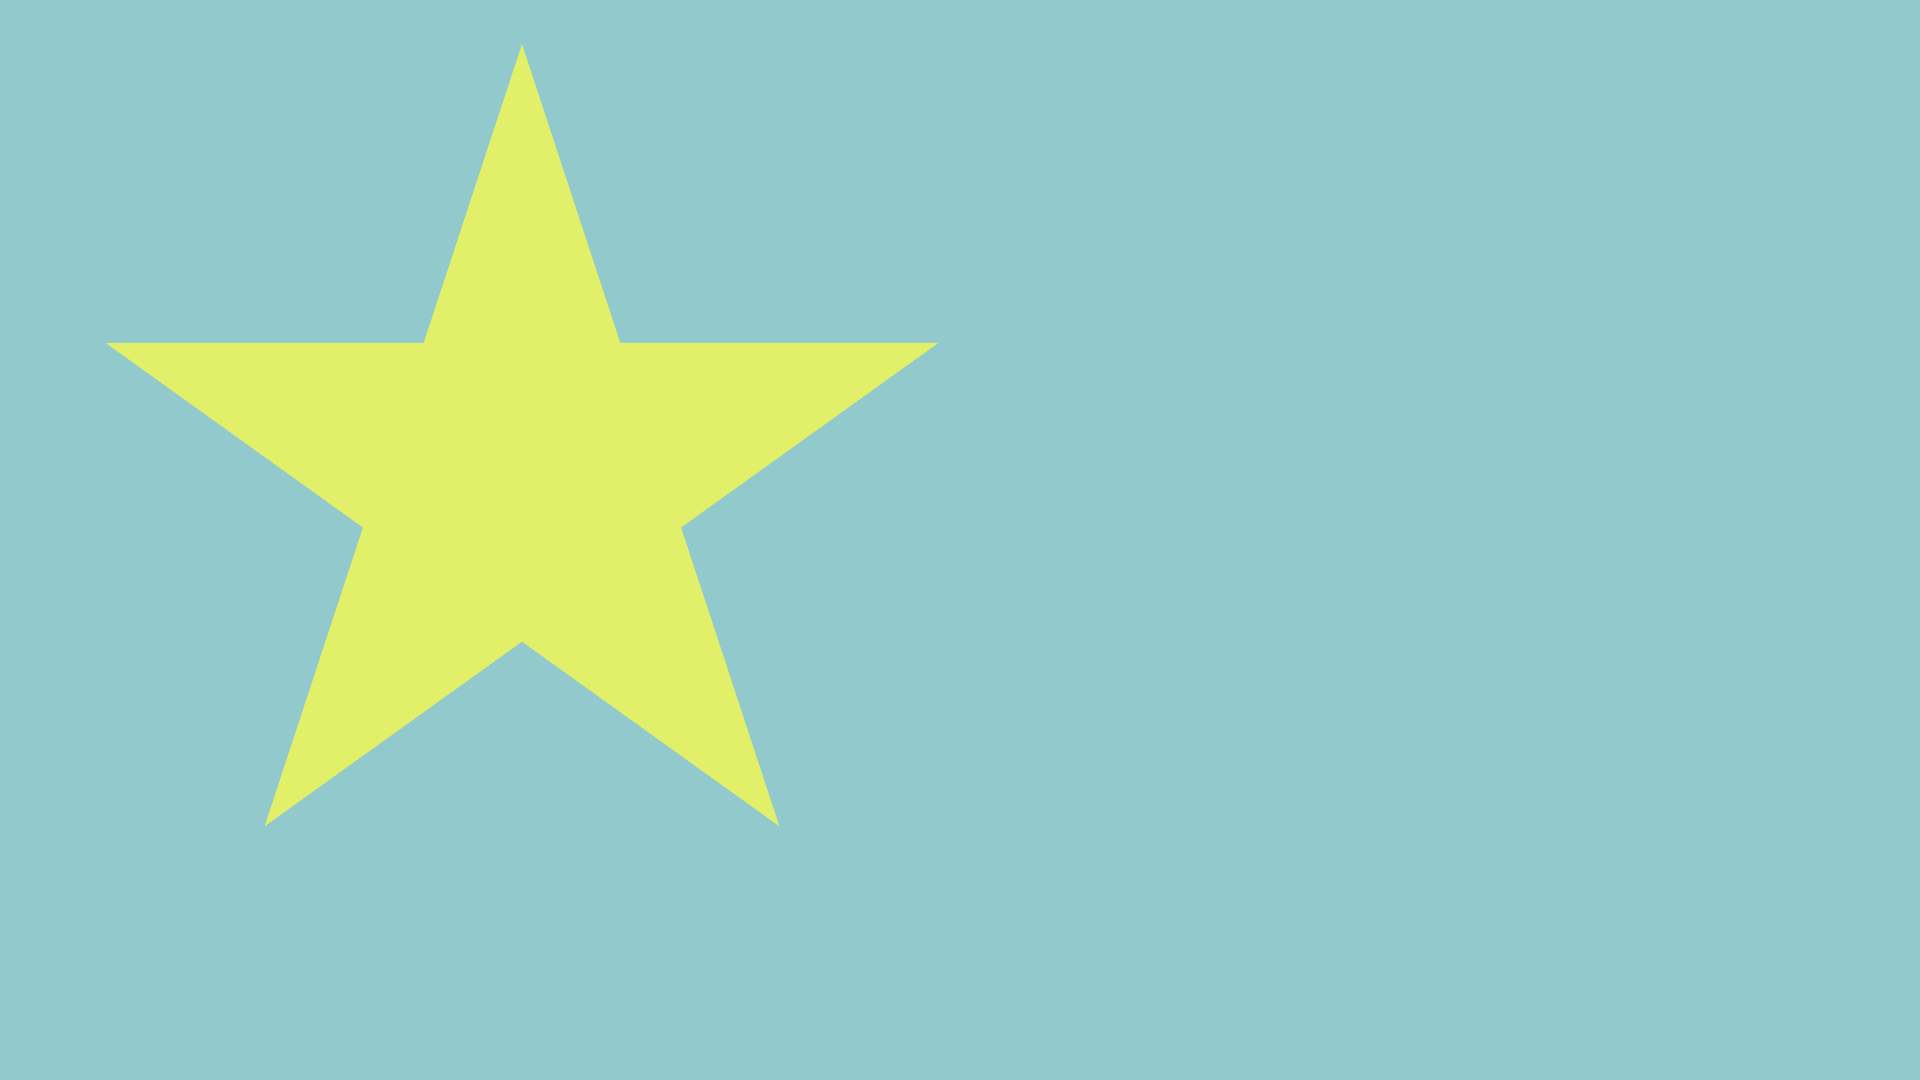
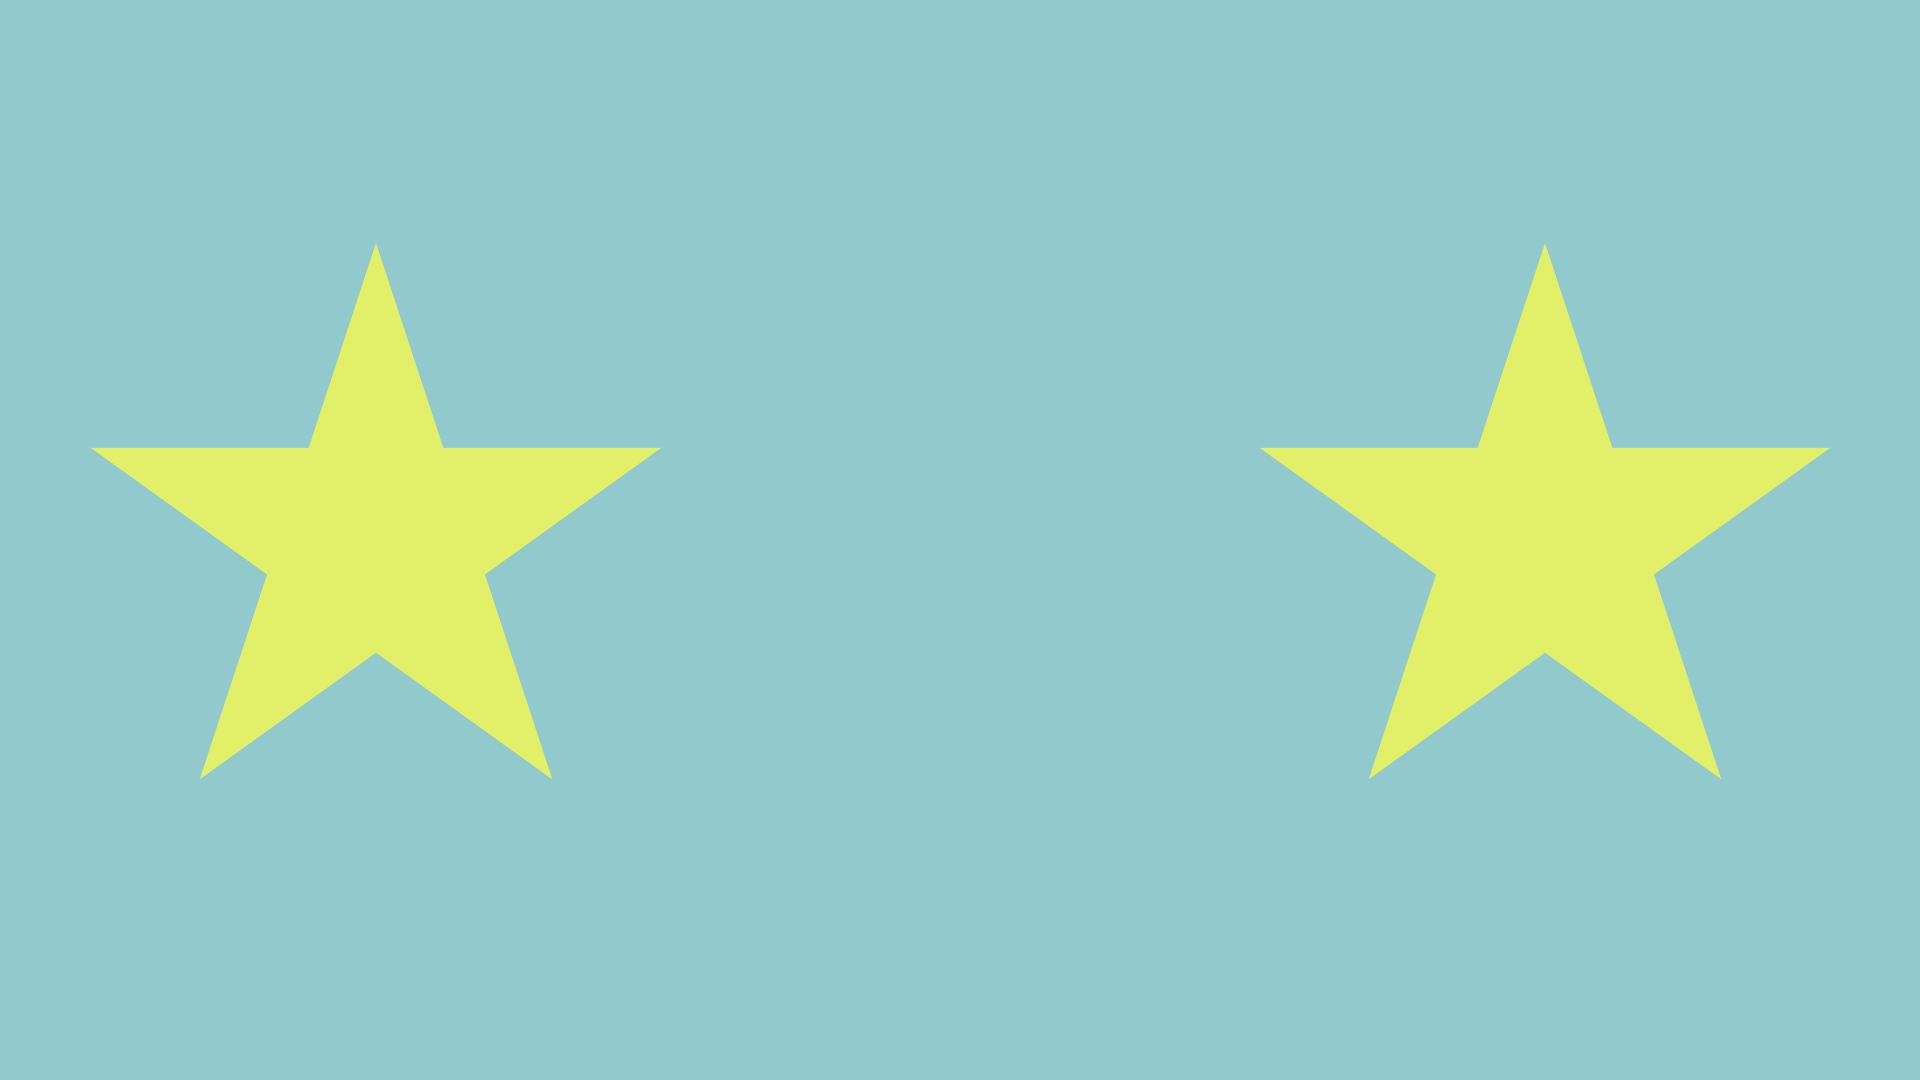
new page w/ SAV

Changed region(s): [[0.0312, 0.0611, 0.5, 0.7639], [0.6562, 0.2444, 0.9688, 0.7333]]

diff --git a/sav.html b/sav.html
@@ -35,10 +35,10 @@
 
 <main class="site-main fade-and-move-in">
   <section class="port-hero savhero">
-    <h1> SAV: Find your Fashion</h1>
+    <h1> SAV</h1>
   </section>
     <section class="port-blurb">
-      <h1>  </h1>
+      <h1> Find Your Fashion</h1>
       <h4 class="port-brief">A Mobile App Design Design for SAV</h4>
     </section>
     
@@ -46,18 +46,18 @@
     <div class="container">
       <div class="row">
             <div class="one-half column">
-                <img src="img/talkmixed.png" alt="Talk Kaimuki Screen Grabs">
+              <div style="width:100%;height:0;padding-bottom:137%;position:relative;"><iframe src="https://giphy.com/embed/Xj9g5hfmAXircVhSKh" width="100%" height="100%" style="position:absolute" frameBorder="0" class="giphy-embed" allowFullScreen></iframe></div><p><a href="https://giphy.com/gifs/Xj9g5hfmAXircVhSKh"></a></p>
             </div>
             <div class="one-half column">
                 <h2>About the Project</h2>
                 <h4 class="sectionsub"> Goal</h4>
-                <p>The goal was to create a fresh and youthful website design for Talk Kaimuki. Former 'Coffee Talk' has opened up their doors at night and needed a wesbite to match their brand personality while adding in their new menu. </p>
+                <p>The goal was to create a mobile app design. SAV, short for savvy, is an app that helps the user create outfits from their closet. Using AI to help organize and try on their pieces, SAV makes finding your fashion easier. </p>
 
                 <h4 class="sectionsub">Research and Sketching</h4>
-                <p>Shaken, stirred, and full of flavor! The Talk Team is a crew of cool, trendy baristas and bartenders, mixing up that next-gen energy. I wanted the site design to reflect their vibe, so I tapped into their Instagram feeds to capture their Y2K-inspired style. I also wanted to include two themes, Day and Night (Coffee and Cocktails). The result? A design that is as bold and hip as they are!</p>
+                <p>SAV: Find Your Fashion is just as trendy and bold as you are! It is your clothes, your closet, your style. I wanted create a simple design that would reflect current trends.</p>
 
                 <h4 class="sectionsub"> Scope </h4>
-                <p>Project Type: Web Design </p>
+                <p>Project Type: Mobile App Design </p>
                 <p>Software: Figma, Illustrator, Photoshop</p>
 
             </div>
@@ -67,13 +67,13 @@
 <section id="styletile">
       <div class="container">
         <div class="styletiles">
-        <h2 class="sectionhead">Style Tiles + Sitemap</h2>
-            <h3> Style Tile A</h3>
-            <img src="img/talktileA.png" alt="tarot style tiles" width="2000px" height="1200px">
-            <h3> Style Tile B</h3>
-            <img src="img/talktileB.png" alt="tarot style tiles" width="2000px" height="1200px">
+        <h2 class="sectionhead">Style Tiles + Flow Chart</h2>
+            <h3> Style Tile A: Nouveau Retro</h3>
+            <img src="img/sav-tileA.png" alt="SAV style tiles" width="2000px" height="1200px">
+            <h3> Style Tile B: Brutalist</h3>
+            <img src="img/sav-tileB.png" alt="SAV style tiles" width="2000px" height="1200px">
             <h3> Site Map</h3>
-            <img src="img/talkmap.png" alt="site map" width="1000px" height="1000px">
+            <img src="img/sav-flow.png" alt="flow chart" width="1000px" height="1000px">
         </div>
       </div>
     
@@ -81,36 +81,67 @@
 
 
 <section id="ideation">
-    <h2 class="sectionhead">Wireframes</h2>
+    <h2 class="sectionhead">Lo-fi Design</h2>
     <div class="container">
       <div class="row">
-        <div class="one-half column">
-          <img src="img/talkframeA.png">
+        <div class="one-third column">
+          <img src="img/sav-spalsh-lofi.png">
         </div>
-        <div class="one-half column">
-          <img src="img/talkframeB.png">
+        <div class="one-third column">
+          <img src="img/sav-outfit-lofi.png">
         </div>
+        <div class="one-third column">
+          <div style="padding:206.28% 0 0 0;position:relative;"><iframe src="https://player.vimeo.com/video/1037593160?background=1&amp;autoplay=1&amp;loop=1&amp;badge=&amp;player_id=0&amp;app_id=58479" frameborder="0" allow="autoplay; fullscreen; picture-in-picture; clipboard-write" style="position:absolute;top:0;left:0;width:105%;height:105%;" title="sav_lofi"></iframe></div><script src="https://player.vimeo.com/api/player.js"></script>
       </div>
     </div>
+  </section>
+<section>
+    <h2 class="sectionhead">Iterations</h2>
+    <div class="container">
+      <div class="row">
+        <div class="one-third column">
+          <img src="img/sav-spalsh-hifi1.png">
+        </div>
+        <div class="one-third column">
+          <img src="img/sav-outfit-hifi1.png">
+        </div>
+        <div class="one-third column">
+          <div style="padding:206.28% 0 0 0;position:relative;"><iframe src="https://player.vimeo.com/video/1037599943?background=1&amp;autoplay=1&amp;loop=1&amp;badge=&amp;player_id=0&amp;app_id=58479" frameborder="0" allow="autoplay; fullscreen; picture-in-picture; clipboard-write" style="position:absolute;top:0;left:0;width:105%;height:105%;" ></iframe></div><script src="https://player.vimeo.com/api/player.js"></script>
+    </div>
+
 </section>
 <section id="solution">
   <div class="row"></div>
-    <h2 class="sectionhead">Coding</h2>
-
+    <h2 class="sectionhead">Final Prototype</h2>
+   
     <div class="container">
+      <div class="row">
+        <div class="one-third column">
+          <h4 class="sectionsub">Explore your closet!</h4>
+          <p>Between my two styles I decided to go with my brutalist inspired theme. Giving it a clean but trendy feel. Click below to view my prototype (it's interactive!)</p>
+
+          <a href="https://www.figma.com/proto/5cZja4AMCkq57MP4xRRXqa/Sav?page-id=0%3A1&node-id=29-17&node-type=canvas&viewport=-374%2C-287%2C0.24&t=Na2UwcbozwJ9JSyc-1&scaling=scale-down&content-scaling=fixed&starting-point-node-id=27%3A2&show-proto-sidebar=1"><h3> &there4; Check out the prototype &there4; </h3></a>
+        </div>
+        <div class="one-third column">
+          <img src="img/sav-outfit-hifi-final.png">
+        </div>
+        <div class="one-third column">
+          <div style="padding:206.28% 0 0 0;position:relative;"><iframe src="https://player.vimeo.com/video/1037617027?background=1&amp;autoplay=1&amp;loop=1&amp;badge=&amp;player_id=0&amp;app_id=58479" frameborder="0" allow="autoplay; fullscreen; picture-in-picture; clipboard-write" style="position:absolute;top:0;left:0;width:105%;height:105%;" ></iframe></div><script src="https://player.vimeo.com/api/player.js"></script>
+    </div>
+
+
+    <!-- <div class="container">
 
       
       <div class="row">
             <div class="one-half column">
-              <h4 class="sectionsub">Let's have a drink!</h4>
-              <p>Choosing between a soft theme and something more bold, I decided to combine my designs to create a meld of moody and scrapbooky. Click below to view my protoype or view it on this page (it's clickable and scroll-able!)</p>
+              <h4 class="sectionsub">Explore your closet!</h4>
+              <p>Between my two styles I decided to go with my brutalist inspired theme. Giving it a clean but trendy feel. Click below to view my prototype (it's interactive!)</p>
 
               <a href="https://www.figma.com/proto/YW85feDMsxfbckBpHcM0CI/Talk-Kaimuki?page-id=0%3A1&node-id=447-1883&node-type=frame&viewport=-2328%2C-551%2C0.23&t=av47LiZ1Izbj1uJL-1&scaling=scale-down-width&content-scaling=fixed&starting-point-node-id=447%3A840"><h3> &there4; Check out the prototype &there4; </h3></a>
             </div>
-            <div class="one-half column text-centered puff">
-              <iframe style="border: 1px solid rgba(0, 0, 0, 0.1);" width="600" height="415" src="https://embed.figma.com/proto/YW85feDMsxfbckBpHcM0CI/Talk-Kaimuki?page-id=0%3A1&node-id=447-840&node-type=frame&viewport=-2328%2C-551%2C0.23&scaling=scale-down-width&content-scaling=fixed&starting-point-node-id=447%3A840&embed-host=share" allowfullscreen></iframe>
-            </div>
-          </div>
+            
+          </div> -->
       </div>
 </section>
 

diff --git a/css/style.css b/css/style.css
@@ -364,7 +364,9 @@ section {
 .column.one-third, .column.one-fourth {
   text-align: center;
 }
-
+#solution .column.one-third {
+  text-align: left;
+}
 .column.one-half {
   max-width: 50%;
 }
@@ -1164,6 +1166,8 @@ p {
   padding: 0vh 1em 20vh 1em;
 }
 }
+
+
 
 .port-blurb h1 {
   /* padding-top: 1em;
